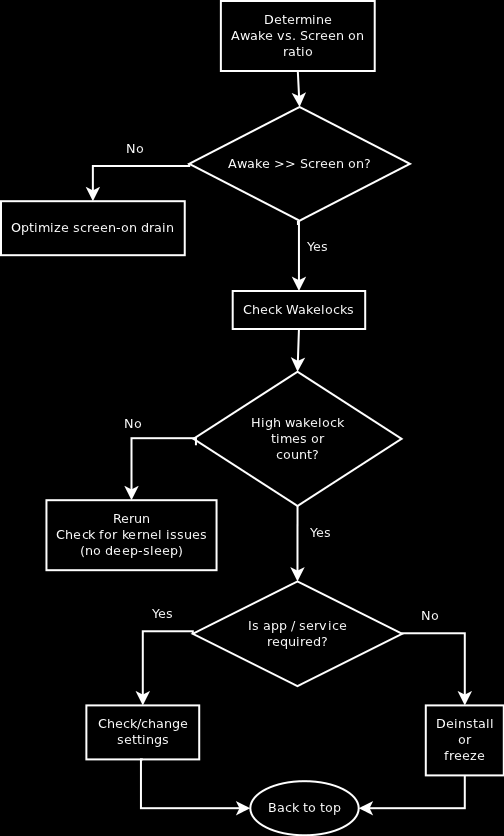
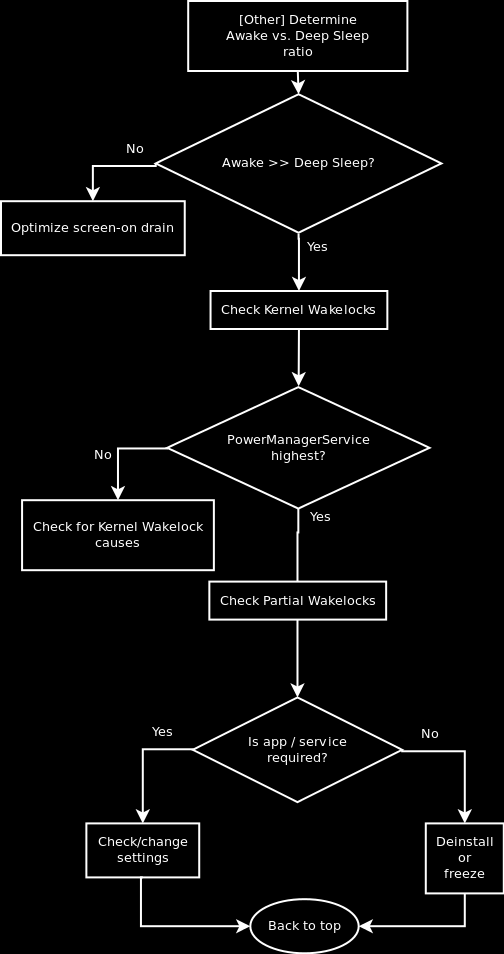
Changes in doc for release

diff --git a/BetterBatteryStats/assets/howto.html b/BetterBatteryStats/assets/howto.html
@@ -23,31 +23,44 @@
 <div class="row">
  
 	
-<h2>BetterBatteryStats<span>How To</span></h2> 
+<h2>BetterBatteryStats How To</h2> 
 <div id="content"> 
 This document provides an insight about how to use BetterBatteryStats to reduce the battery drain in a systematic manner.
-<p id="intro">The process to follow is pretty simple and follows this simple flowchart:</p>
-<img src="howto.png" alt="flowchart"/><br/><br/><br/>
-<h2>Determine awake vs. screen on ratio</h2>
+<p>First you must select a reference (most of the time "since unplugged" is the best way to start).</p>
+<h1>Go to the [Other] view</h1>
+<h2>Check the deep sleep, awake and screen on times</h2>
 <p>
-The awake vs. screen on ratio tells you how much time your phone has spent with the display being off but not being in the optimal deep-sleep mode. During this time the reason why your phone is not going to deep-sleep or is being woken up from deep-sleep is caused by background processes (services, apps reacting on different events, kernel). These use partial wakelocks or kernel wakelocks to prevent your phone from reaching its optimal state of deep-sleep. The good news is we can change this to some extent and by doing so improve the battery life dramatically.
+The <i>deep sleep vs. awake ratio</i> tells you how much time your phone has spent in the most power saving mode: ideally the ratio would be near 100%
+</p>
+<p>
+The <i>screen on vs. awake ratio</i> tells you how much time your phone was in use vs. how long it has been awake. Ideally this ratio is 100%, meaning that the phone was only awake when in use.
+</p>
+<p>
+<b>Pro tip:</b> the 1x1 widget shows both ratios and gives the best overview on how optimal your phones runs</p>
+<h2>Check the [Kernel wakelocks]</h2>
+<p>
+The list shows you what kernel wakelocks occured: a symbol on the right shows that there is a knowledge-base article on that specific wakelock
+ In the first step we want to check for high times (minutes or more), once there are no hot spots left we want to look at the high counts.
 </p>
 
-<h2>Check partial wakelocks</h2>
+<h3>The PowerManagerService wakelock</h3>
 <p>
-Go to the "Partial wakelocks" statistic and check the list. The wakelocks are sorted by time in descending order. In the first step we want to check for high times (minutes or more), once there are no hot spots left we want to look at the high counts.
+This wakelock shows as a sum of the partial wakelocks on many phones. If this wakelock is #1 go to the <i>Partial Wakelocks</i> to find out more.
 </p>
-
-<h2>Check for kernel wakelocks</h2>
 <p>
-Besides applications causing awake times by holding partial wakelocks certain events at kernel level can cause awake by holding kernel wakelocks (in response to events like incoming network traffic or in response to services requested by applications (e.g. data traffic). 
+If the PowerManagerService is not the highest wakelock check the online knowledge-base or use google search to find more information about the wakelock and its potential causes. 
 </p>
-<H2>Deinstall or freeze</H2>
+<h2>Check the [Partial wakelocks]</h2>
 <p>
-Once a cause for partial wakelocks has been spotted you have to ask yourself if you even use that app. If not disable/deinstall/freeze it.
-Go back to the start and take another reading to see the effect of the action.
+The list shows you what partial wakelocks occured and for most of them what application caused them. See "What's next" for more details on how to reduce them.
 </p>
-<h2>Check / change settings</h2>
+<h3>The AlarmManager wakelock</h3>
+<p>
+High times or count on the <i>AlarmManager</i> wakelock is a sign that either many wakeups were caused by alarms or that apps have added/modified alarms intensively. A detailed overview can be found under [Alarms].
+</p>
+<h2>What's next?</h2>
+<p>Some but not all wakelocks can be traced back to a specific app. In that case there are following options:     
+<h3>Check / change settings</h3>
 <p>
 Sometimes we really want the app / functionality causing the wakelocks and the good news is there is still hope. Many apps have settings that condition their behaviour so these should be checked:
 <ul>
@@ -55,28 +68,20 @@ Sometimes we really want the app / functionality causing the wakelocks and the g
 	<li>quantity: check for optional services like e.g. cloud backup, full sync etc. and ask yourself if you really need all that stuff</li>
 </ul>
 
-<h2>Optimize screen-on drain</h2>
+<h3>Deinstall or freeze</h3>
 <p>
-If you awake time is not less than the screen on time there are two aspects to consider:
+Once a cause for partial wakelocks has been spotted you have to ask yourself if you even use that app. If not disable/deinstall/freeze it.
+Go back to the start and take another reading to see the effect of the action.
+</p>
+<p>In some cases it is not possible to attribute a wakelock to an app. In such cases use the knowledge-base and google search to find more information about potential causes.</p>
+<h2>Common tips</h2>
+Following tips can help you reducing some causes of awake:
 <ul>
-	<li>What is preventing the phone from sleeping is you interacting with your phone</li>
-	<li>There still may be too many things happening in the backgroud that would prevent you phone from sleeping if you weren't using it</li>	
-</ul>
-So even if partial wakelocks are not the root cause of you drain we still recommend checking them and make sure there is nothing unwanted happening in the background.
-<br/>
-Following tips can help you lower the drain when screen is on:
-<ul>
-	<li>Don't use auto brightness but keep it as low as possible</li>
-	<li>If the minimum brightness is still too high consider using a 3rd party tool like screen filter</li>
-	<li>Don't use animated wallpapers</li>
-	<li>Lower your auto-off timeout to turn off the screen faster if unused</li>
-	<li>Check the refresh settings of your widgets</li>
-	<li>Use Wifi instead of 3G data</li>
-	<li>Check for rogue apps in terms of CPU consumption (process view)</li>
-	<li>Turn your GPS off (automatic is not was good as off)</li>
+	<li>Turn your GPS off when not required to avoid apps using that expensive location source</li>
 	<li>When you are finished using an app close it with the "back" button. This will terminate it and avoid background management</li>
 	<li>Don't use any auto killer apps. If there are apps you don't want to be started or cached freeze them or configure their auto-start properly</li>
 	<li>Don't use and power saving tools like Juice Defender or Green Power: most apps do not behave properly when they can't use the data connection and will generate overhead by trying</li>
+	<li>If you don't need Wifi turn it off: in some cases Wifi is known to cause wakeups and an overhead in e.g. location services</li>
 </ul>
 </p>
 <h2>Enjoy your successes</h2>

diff --git a/BetterBatteryStats/assets/help.html b/BetterBatteryStats/assets/help.html
@@ -29,12 +29,13 @@
 <h2>Views</h2>
 <p>These are the four statistics:
 <ul>
-	<li>Other: shows total times the different part of the phone have been on (display, wifi, bluetooth)</li>
-	<li>Partial wakelocks: shows the total time and the count of partial wakelocks by application</li>
+	<li>Other: shows sleep, awake and screen on as well as other important times</li>
 	<li>Kernel Wakelocks: shows the total time and the count of kernel wakelocks</li>
+	<li>Partial wakelocks: shows the total time and the count of partial wakelocks</li>
+	<li>Alarms: shows the wakeups caused by applications or services</li>
 	<li>Processes: shows the cpu time (user and system) processes have consumed</li>
 </ul></p>
-<p>and these are the possible timespans (except for kernel wakelocks that always are "since boot"):
+<p>and these are the possible timespans:
 <ul>
 	<li>Since changed: all statitics give details since the phone was 100% charged</li>
 	<li>Since unplugged: all statitics give details since the phone was unplugged from A/C or USB</li>
@@ -49,6 +50,7 @@ Group of different indicators about what is consuming the battery. This statisti
 A usual profile would show low "Screen on" times compared the "Awake" meaning that partial wakelocks are resonsible for the battery drain as those preventing the phone from going to deep sleep.
 </p>
 <ul>
+	<li>Deep Sleep: the total time the phone was sleeping</li>
 	<li>Awake: the total time the phone was not in deep-sleep</li>
 	<li>Screen On: the total time the phone was awake and the display was on</li>
 	<li>Phone On: the total time the phone was in a call</li>
@@ -71,6 +73,10 @@ For example let's assume the phone takes 1/2 second to wake up and sleep again. 
 <p>
 Like for partial wakelocks as well long running wakelocks as wakelocks with a high count (large number of wakeups) should be taken into acount.
 </p>
+<h3>Alarms</h3>
+<p>
+Alarms are events created by applications that may cause wakeups.
+</p>
 <h3>Processes</h3>
 <p>
 The list shows the processes and their CPU consumption during the timespan. CPU consumption is expressed in user CPU and system CPU and both times are shown in the total and in the bar graph with different colors.
@@ -81,12 +87,13 @@ The list shows the processes and their CPU consumption during the timespan. CPU 
 	<li>Preferences</li>
 	<li>Refresh</li>
 	<li>Order By/li>
-	<li>Actions</li>
+	<li>More</li>
 	<ul>
 		<li>Dump to file: writes the statistics to /sdcard/BetterBatteryStats.log</li>
 		<li>Set Custom Reference: set a custom begin mark for a statitic</li>
 		<li>History: shows different graphs like battery usage or wakeups (starting from android 2.3)</li>
-		<li>Alarms: a tool for analysing partial wakelocks caused by AlarmManager</li>
+		<li>Raw Alarms: shows the alarms since boot</li>
+		<li>Raw Kernel Wakelocks: shows the alarms since boot</li>
 	</ul>
 	<li>Help: access to this help was well as the how-to</li>
 </ul>

diff --git a/BetterBatteryStats/assets/readme.html b/BetterBatteryStats/assets/readme.html
@@ -24,78 +24,15 @@
 	
 <h2>BetterBatteryStats<span>Release Notes</span></h2> 
 <div id="content"> 
-<h2>v1.8.0.0RC8 2012-04-23</h2>
+<h2>v1.8.0.0 2012-04-29</h2>
 <p>
 <ul>
-	<li>Made widget graph sequence consistent with titles</li>
-</ul>
-</p>
-
-<h2>v1.8.0.0RC7 2012-04-23</h2>
-<p>
-<ul>
-	<li>Fixed FC on dump for API &lt; 14</li>
-</ul>
-</p>
-
-<h2>v1.8.0.0RC6 2012-04-23</h2>
-<p>
-<ul>
-	<li>Fixed sorting of values in 2x2 and 2x1 widget</li>
-	<li>Larger "refresh" zone (upper half) for 2x2 and 2x1 widgets</li>
-</ul>
-</p>
-
-<h2>v1.8.0.0RC5 2012-04-22</h2>
-<p>
-<ul>
-	<li>Added medium sized widget (text only)</li>
-	<li>Preferences for font size in widgets</li>
-	<li>Preference for showing % or time in widgets</li>
-</ul>
-</p>
-
-<h2>v1.8.0.0RC4 2012-04-15</h2>
-<p>
-<ul>
-	<li>Fixed fontsize in widgets</li>
-	<li>Unplugging immediately refreshes widgets</li>
-</ul>
-</p>
-
-<h2>v1.8.0.0RC3 2012-04-14</h2>
-<p>
-<ul>
-	<li>Fixed widget showing inconsistent data when using custom ref and no ref available</li>
-	<li>Fixed background color for small widget</li>
-	<li>Fixed widget not updating when app killed</li>
-	<li>Fixed graph size in 2x2 widget</li>
-	<li>Added distinctive touch zone (title) for refreshing the widgets</li>
-	<li>Widget refresh after preferences were edited</li>
-	<li>Setting to determine what 1x1 widget should do when tapped</li>
-</ul>
-</p>
-
-<h2>v1.8.0.0RC2 2012-04-11</h2>
-<p>
-<ul>
-	<li>Background opacity of widgets has its own setting</li>
-	<li>Fixed unset bar heigth setting</li>
+	<li>Added 2x2, 2x1 and 1x1 widgets</li>
 	<li>Added toast when dumpfile was written</li>
-	<li>Adjustable widget refresh freq</li>
-	<li>Tap on widgets now open the main activity</li>
-</ul>
-</p>
-
-<h2>v1.8.0.0RC1 2012-04-10</h2>
-<p>
-<ul>
 	<li>Added caching of Knowledge Base</li>
 	<li>Added Locale/Tasker plugin for saving dumps and/or custom refs automatically</li>
 	<li>Re-ordered statistics to a logical order</li>
-	<li>Added widgets</li>
 	<li>Added Deep Sleep to "other" stats</li>
-	<li>Replaced in-list gauges with a nicer layout</li>
 	<li>Only required 'su' rights are for 'dumpsys alarm' (fixing SuperUser issues). Make sure to call "Alarms" or unplug once to grant rights</li>
 	<li>Experimental: Added time without data connecton to "other" stats</li>
 	<li>Experimental: Added signal strenth to "other" stats</li>	

diff --git a/BetterBatteryStats/assets/style.css b/BetterBatteryStats/assets/style.css
@@ -11,12 +11,13 @@ h1 { display: block; margin: 40px auto 0; text-indent: -999999px; }
 h2 { font-size: 14px; color:#656565; width: 200px; font-weight: normal; margin-bottom: 20px; padding: 30px 30px 5px; }
 h2 span { display: block; font-size: 20px; color: #fff; margin-top: 5px; }
 h2#post span { margin-top: 0; margin-bottom: 10px;  }
-div#content h2 { display: inline; background-color: #000; font-size: 13px; color: #fff; margin: 0; padding: 0; font-weight: bold; }
-
-h3,h4,h5 { color: #fff; }
+div#content h1 { display: inline; font-size: 15px; color: #fff; margin: 0; padding: 0; font-weight: bold; }
+div#content h2 { font-size: 13px; color: #fff; margin: 0; padding: 0; font-weight: bold; }
+div#content h3 { font-size: 12px; margin: 0; padding: 0; font-weight: bold; }
+h4,h5 { color: #fff; }
 
 /* content */
-div#content { padding: 30px; font-size: 15px; color: #acacac; line-height: 140% }
+div#content { padding: 30px; font-size: 12px; color: #acacac; line-height: 140% }
 div#content p { margin: 20px 0; }
 div#content p:first-child { margin-top: 0; }
 div#content ul { list-style: disc; line-height: 160%; padding: 0 35px; }
